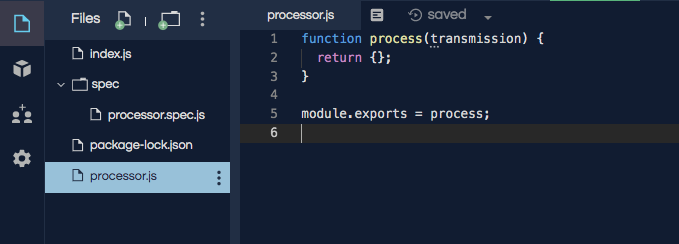
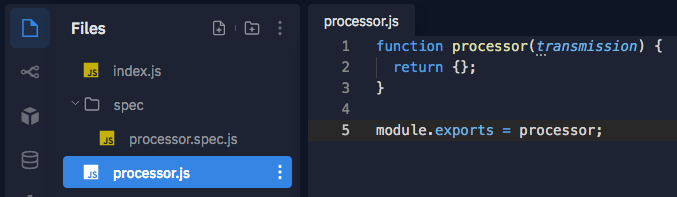
Fixed deepStrictEqual oversight and function name typos on the tdd-example.rst page.

diff --git a/src/chapters/unit-testing/tdd-example.rst b/src/chapters/unit-testing/tdd-example.rst
@@ -24,9 +24,9 @@ We need to write a Node module to process transmissions from the
          rawData: 932829840830053761
       }
 
-
 Requirements
 ------------
+
 The features for this project have already been broken down into
 small testable units. Let's review them and then we will
 take it slow, one step at a time.
@@ -44,9 +44,9 @@ take it slow, one step at a time.
 
 #. Return -1 for the value ``rawData`` if the ``rawData`` part of the transmission does NOT start with ``<`` and end with ``>``
 
-
 Requirement #1
 --------------
+
 *Requirement:* Take in a transmission string and return an object.
 
 To get started on this we need to:
@@ -146,6 +146,7 @@ returned an object.
 
 Code Red
 ^^^^^^^^
+
 Let's run the test! Click the ``run >`` button in your repl.it.
 You should see an error about ``processor.js`` not existing. This makes sense, because we have not
 created the file yet. We are officially in the Red phase of Red, Green, Refactor!
@@ -153,7 +154,6 @@ created the file yet. We are officially in the Red phase of Red, Green, Refactor
 ::
 
    Error: Cannot find module '../processor.js'
-
 
 Go Green!
 ^^^^^^^^^
@@ -167,17 +167,16 @@ Contents of the new ``processor.js`` file.
 .. sourcecode:: js
    :linenos:
 
-   function process(transmission) {
+   function processor(transmission) {
       return {};
    }
 
-   module.exports = process;
-
+   module.exports = processor;
 
 .. figure:: figures/processor-module-added-to-replit.png
-       :alt: Screen shot showing processor.js file added to replit with function in it.
+   :alt: Screen shot showing processor.js file added to replit with function in it.
 
-       processor.js file
+   processor.js file
 
 *Run the test again.*
 
@@ -190,13 +189,14 @@ test. In repl.it you have to imagine the satisfying green color of a passing tes
 
 Refactor if Needed
 ^^^^^^^^^^^^^^^^^^
+
 This solution is very simple and does not need to be improved. The refactor step 
 does not always lead to an actual changing of your code. The most important part is to
 review your code to make sure that it's efficient and meets your team's standards.
 
-
 Requirement #2
 --------------
+
 *Requirement:* Return ``-1`` if the transmission does NOT contain ``"::"``.
 
 Next we have a negative test requirement that tells us what should happen if the data is invalid.
@@ -236,7 +236,9 @@ For requirement #2, the solution for *steps 1 - 4* can be seen on lines *11 - 14
    });
 
 Now for *step 5*, run the test and see it fail. When you run the tests, you should see the below
-error message. Notice that ``-1`` was the expected value, but the actual value was ``'object'``.
+error message. Notice that ``-1`` was the expected value, but the actual value was
+and empty object, ``{}``.
+
 ::
 
    Failures:
@@ -245,16 +247,17 @@ error message. Notice that ``-1`` was the expected value, but the actual value w
     AssertionError [ERR_ASSERTION]: Input A expected to strictly equal input B:
     + expected - actual
 
-    - 'object'
+    - {}
     + -1
 
-Next is *step 6*, write code that will make the test pass. Go to ``processor.js`` and update the ``processor`` function
-to check the ``transmission`` argument for the presence of ``'::'``.
+Next is *step 6*, write code that will make the test pass. Go to ``processor.js`` and
+update the ``processor`` function to check the ``transmission`` argument for the
+presence of ``'::'``.
 
 .. sourcecode:: js
    :linenos:
 
-   function process(transmission) {
+   function processor(transmission) {
       if (transmission.indexOf("::") < 0) {
          // Data is invalid
          return -1;
@@ -262,7 +265,7 @@ to check the ``transmission`` argument for the presence of ``'::'``.
       return {};
    }
 
-   module.exports = process;
+   module.exports = processor;
 
 Lucky *step 7* is to run the tests again. They should both pass.
 
@@ -274,9 +277,9 @@ Lucky *step 7* is to run the tests again. They should both pass.
 Finally *step 8* is to review the code to see if it needs to be refactored. As with the first requirement
 our code is quite simple and can not be improved at this time.
 
-
 Requirement #3
 --------------
+
 *Requirement:* Returned object should contain an ``id`` property.
 The ``id`` is the part of the transmission *before* the ``"::"``
 
@@ -314,7 +317,7 @@ object that does NOT exist, ``undefined`` is returned.
    });
 
 The fail message looks a little different than what we have seen. The phrase
-"Identical input passed to notStrictEqual" lets us know that the two values
+"Expected 'actual' to be strictly unequal to" lets us know that the two values
 were equal when we didn't expect them to be.
 
 ::
@@ -322,16 +325,16 @@ were equal when we didn't expect them to be.
    Failures:
    1) transmission processor returns id in object
    Message:
-      AssertionError [ERR_ASSERTION]: Identical input passed to notStrictEqual: undefined
+      AssertionError: Expected "actual" to be strictly unequal to: undefined
 
-The object returned from ``processor`` doesn't have an id property. We need to
-split the transmission on ``'::'`` and then add that value to the object with
-the key ``id``. See solution in ``processor.js`` below.
+The object returned from ``processor`` doesn't have an ``id`` property. We need
+to split the transmission on ``'::'`` and then add that value to the object
+with the key ``id``. See solution in ``processor.js`` below.
 
 .. sourcecode:: js
    :linenos:
 
-   function process(transmission) {
+   function processor(transmission) {
       if (transmission.indexOf("::") < 0) {
          // Data is invalid
          return -1;
@@ -342,7 +345,7 @@ the key ``id``. See solution in ``processor.js`` below.
       };
    }
 
-   module.exports = process;
+   module.exports = processor;
 
 Run the tests again. That did it. The tests pass! :-)
 
@@ -354,14 +357,14 @@ the first entry in the array to the key ``id``.
   3 specs, 0 failures
   Finished in 0.011 seconds
 
-
 Requirement #4
 --------------
-*Requirement:* The ``id`` property should be of type ``Number``
+
+*Requirement:* The ``id`` property should be of type ``Number``.
 
 Again the same steps are followed, though not listed.
 
-New test to be added to ``specs/processor.spec.js``
+New test to be added to ``specs/processor.spec.js``:
 
 .. sourcecode:: js
    :linenos:
@@ -378,19 +381,16 @@ Fail Message
    Failures:
    1) transmission processor converts id to a number
    Message:
-      AssertionError [ERR_ASSERTION]: Input A expected to strictly equal input B:
-      + expected - actual
+      AssertionError: Expected values to be strictly equal:
 
-      - '9701'
-      + 9701
-
+      '9701' !== 9701
 
 Convert the id part of the string to be of type ``number``.
 
 .. sourcecode:: js
    :linenos:
 
-   function process(transmission) {
+   function processor(transmission) {
       if (transmission.indexOf("::") < 0) {
          // Data is invalid
          return -1;
@@ -401,7 +401,7 @@ Convert the id part of the string to be of type ``number``.
       };
    }
 
-   module.exports = process;
+   module.exports = processor;
 
 Now for the great feeling of a passing tests!
 
@@ -416,9 +416,9 @@ Now for the great feeling of a passing tests!
    turned into a number. That is a negative test case related to this feature
    and is left for you to address in the final section.
 
-
 Requirement #5
 --------------
+
 *Requirement:* Returned object should contain a ``rawData`` property. The ``rawData``
 is the part of the transmission *after* the ``"::"``
 
@@ -439,16 +439,15 @@ Fail Message
    Failures:
    1) transmission processor returns rawData in object
    Message:
-      AssertionError [ERR_ASSERTION]: Identical input passed to notStrictEqual: undefined
+      AssertionError: Expected "actual" to be strictly unequal to: undefined
 
-
-We need to extract the rawData from the second half of the transmission string after it's
-been split. Then return that in the object.
+We need to extract the ``rawData`` from the second half of the transmission
+string after it's been split. Then return that in the object.
 
 .. sourcecode:: js
    :linenos:
 
-   function process(transmission) {
+   function processor(transmission) {
       if (transmission.indexOf("::") < 0) {
          // Data is invalid
          return -1;
@@ -461,7 +460,7 @@ been split. Then return that in the object.
       };
    }
 
-   module.exports = process;
+   module.exports = processor;
 
 It's that time again, our tests pass!
 
@@ -470,20 +469,20 @@ It's that time again, our tests pass!
   5 specs, 0 failures
   Finished in 0.041 seconds
 
-
 Requirement #6
 --------------
-*Requirement:* Return -1 for the value ``rawData`` if the ``rawData`` part of
-the transmission does NOT start with ``<`` and end with ``>``
+
+*Requirement:* Return ``-1`` for the value ``rawData`` if the ``rawData`` part of
+the transmission does NOT start with ``<`` and end with ``>``.
 
 Let's think about what test data to use for this requirement. What ways could the
 transmission data be invalid?
 
-1. It could be missing ``<`` at the beginning
-2. It could be missing ``>`` at the end
-3. It could be missing both ``<`` and ``>``
-4. Has ``<`` but is in the wrong place
-5. Has ``>`` but is in the wrong place
+#. It could be missing ``<`` at the beginning
+#. It could be missing ``>`` at the end
+#. It could be missing both ``<`` and ``>``
+#. Has ``<`` but the symbol is in the wrong place
+#. Has ``>`` but the symbol is in the wrong place
 
 All these cases need to be covered by a test. Let's start with #1, which
 is missing ``<`` at the beginning.
@@ -505,19 +504,20 @@ Fail Message
    Failures:
    1) transmission processor returns -1 for rawData if missing < at position 0
    Message:
-      AssertionError [ERR_ASSERTION]: Input A expected to strictly equal input B:
-      + expected - actual
+      AssertionError: Expected values to be strictly equal:
+      + actual - expected
       
-      - '487297403495720912>'
-      + -1
+      + '487297403495720912>'
+      - -1
 
-New code added to ``processor.js`` to make tests pass. Note that we don't simply return
-``-1``, the requirement is to return the object and set the value of ``rawData`` to ``-1``.
+Now add new code to ``processor.js`` to make the tests pass. Note that we don't
+simply return ``-1``, the requirement is to return the object and set the value
+of ``rawData`` to ``-1``.
 
 .. sourcecode:: js
    :linenos:
 
-   function process(transmission) {
+   function processor(transmission) {
       if (transmission.indexOf("::") < 0) {
          // Data is invalid
          return -1;
@@ -533,7 +533,7 @@ New code added to ``processor.js`` to make tests pass. Note that we don't simply
       };
    }
 
-   module.exports = process;
+   module.exports = processor;
 
 You know what's next, our tests pass!
 
@@ -553,19 +553,16 @@ You know what's next, our tests pass!
    * ``"9701::487297403495720912"``
    * ``"9701::<487297403495<720912>"``
 
-
 Use TDD to Add These Features
 -----------------------------
-Use the steps demonstrated above to implement all or some of the below features.
-Take your time, you can do it!
+
+Use the steps demonstrated above to implement all or some of the features
+below. Take your time, you can do it!
 
 #. Trim leading and trailing whitespace from ``transmission``.
-#. Return -1 if the ``id`` part of the ``transmission`` can not be converted to a number.
-#. Return -1 if more than one ``"::"`` found in ``transmission``
-#. Return -1 for value of ``rawData`` if anything besides numbers are present
-#. Allow for multiple ``rawData`` values
-
-   * ``rawData`` would be returned as an array of numbers
-   * Get the new test working and then fix any broken existing tests
-   * Example Transmission:  ``"9701::<21212.232323.242424>"``
-   * Result: ``{ id: 9701, rawData: [21212,232323,242424] }``
+#. Return ``-1`` if the ``id`` part of the ``transmission`` cannot be converted
+   to a number.
+#. Return ``-1`` if more than one ``"::"`` is found in ``transmission``.
+#. Do not include the ``< >`` symbols in the value assigned to ``rawData``.
+#. Return ``-1`` for the value of ``rawData`` if anything besides numbers are
+   present between the ``< >`` symbols.
